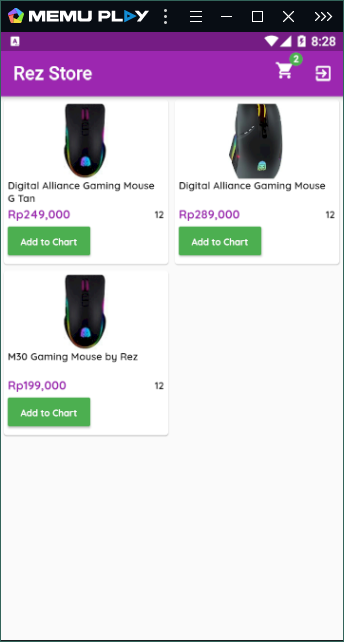
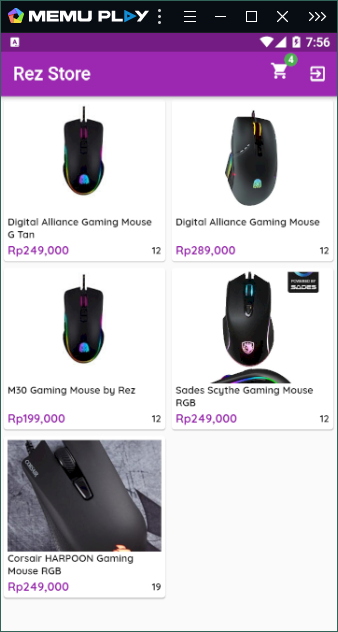
detail product

diff --git a/lib/views/detailProduct.dart b/lib/views/detailProduct.dart
@@ -1,0 +1,219 @@
+import 'dart:convert';
+
+import 'package:flutter/material.dart';
+import 'package:fluttertoast/fluttertoast.dart';
+import 'package:intl/intl.dart';
+import 'package:rez_apps/api/server.dart';
+import 'package:rez_apps/model/productModel.dart';
+import 'package:http/http.dart' as http;
+import 'package:shared_preferences/shared_preferences.dart';
+
+class DetailProduct extends StatefulWidget {
+  final ProductModel model;
+  DetailProduct(this.model);
+
+  @override
+  _DetailProductState createState() => _DetailProductState();
+}
+
+class _DetailProductState extends State<DetailProduct> {
+  final _money = new NumberFormat('#,##0', 'en_US');
+  TextStyle _textDet = TextStyle(
+      fontFamily: 'Quicksand', fontSize: 12.0, fontWeight: FontWeight.bold);
+  String desc =
+      "The HARPOON RGB mouse is built to perform, featuring a 6000 DPI optical gaming sensor with advanced tracking for precise control and lightweight, contoured design to support the quickest of movements.";
+  String idUsers;
+
+  addChart(String idProduct, String harga) async {
+    final response = await http.post(BaseUrl.addchart,
+        body: {"idUsers": idUsers, "idProduct": idProduct, "harga": harga});
+    final data = jsonDecode(response.body);
+    int value = data['value'];
+    String message = data['message'];
+    if (value == 1) {
+      Fluttertoast.showToast(msg: message, toastLength: Toast.LENGTH_SHORT);
+    } else {
+      Fluttertoast.showToast(msg: message, toastLength: Toast.LENGTH_SHORT);
+    }
+  }
+
+  getPref() async {
+    SharedPreferences preferences = await SharedPreferences.getInstance();
+    setState(() {
+      idUsers = preferences.getString("id");
+    });
+  }
+
+  @override
+  void initState() {
+    super.initState();
+    getPref();
+  }
+
+  @override
+  Widget build(BuildContext context) {
+    return Scaffold(
+        body: NestedScrollView(
+      headerSliverBuilder: (BuildContext context, bool innerBox) {
+        return <Widget>[
+          SliverAppBar(
+            expandedHeight: 240.0,
+            floating: true,
+            pinned: true,
+            backgroundColor: Colors.purple,
+            flexibleSpace: FlexibleSpaceBar(
+              background: Hero(
+                tag: widget.model.id,
+                child: Image.network(
+                  'http://192.168.43.69/rez_apps/upload/' + widget.model.image,
+                  fit: BoxFit.cover,
+                ),
+              ),
+            ),
+          )
+        ];
+      },
+      body: Container(
+        child: Stack(
+          children: <Widget>[
+            Positioned(
+              top: 20.0,
+              left: 10.0,
+              right: 10.0,
+              child: Column(
+                crossAxisAlignment: CrossAxisAlignment.start,
+                children: <Widget>[
+                  Text(
+                    widget.model.namaProduct,
+                    style: TextStyle(
+                        fontFamily: 'Quicksand',
+                        fontSize: 20.0,
+                        fontWeight: FontWeight.bold),
+                  ),
+                  Text(
+                    "Rp" + _money.format(int.parse(widget.model.harga)),
+                    style: TextStyle(
+                        fontFamily: 'Quicksand',
+                        fontSize: 24.0,
+                        fontWeight: FontWeight.bold,
+                        color: Colors.green),
+                  ),
+                  Padding(padding: EdgeInsets.only(top: 20.0)),
+                  Container(
+                    padding: EdgeInsets.all(10.0),
+                    color: Colors.grey.withOpacity(0.2),
+                    child: Column(
+                      crossAxisAlignment: CrossAxisAlignment.start,
+                      children: <Widget>[
+                        Text(
+                          "Product Detail",
+                          style: TextStyle(
+                              fontFamily: 'Quicksand',
+                              fontSize: 16.0,
+                              fontWeight: FontWeight.bold),
+                        ),
+                        Padding(padding: EdgeInsets.only(top: 10.0)),
+                        Row(
+                          children: <Widget>[
+                            Text(
+                              "Product Name : ",
+                              style: _textDet,
+                            ),
+                            Text(
+                              widget.model.namaProduct,
+                              style: _textDet,
+                            )
+                          ],
+                        ),
+                        Padding(padding: EdgeInsets.only(top: 5.0)),
+                        Row(
+                          children: <Widget>[
+                            Text(
+                              "Product Stock : ",
+                              style: _textDet,
+                            ),
+                            Text(
+                              widget.model.qty,
+                              style: _textDet,
+                            )
+                          ],
+                        ),
+                        Padding(padding: EdgeInsets.only(top: 5.0)),
+                        Row(
+                          children: <Widget>[
+                            Text(
+                              "Release Date : ",
+                              style: _textDet,
+                            ),
+                            Text(
+                              widget.model.releasepro,
+                              style: _textDet,
+                            )
+                          ],
+                        ),
+                        Padding(padding: EdgeInsets.only(top: 5.0)),
+                        Text("Description : ", style: _textDet),
+                        Padding(padding: EdgeInsets.only(top: 5.0)),
+                        Text(
+                          desc,
+                          style: _textDet,
+                          textAlign: TextAlign.justify,
+                        )
+                      ],
+                    ),
+                  )
+                ],
+              ),
+            ),
+            Positioned(
+              bottom: 0.0,
+              right: 0.0,
+              left: 0.0,
+              child: Row(
+                mainAxisAlignment: MainAxisAlignment.spaceBetween,
+                children: <Widget>[
+                  Container(
+                    child: Material(
+                      color: Colors.green,
+                      child: MaterialButton(
+                        onPressed: () {},
+                        child: Text(
+                          "Chat",
+                          style: TextStyle(
+                              fontSize: 16.0,
+                              fontFamily: 'Quicksand',
+                              fontWeight: FontWeight.bold,
+                              color: Colors.white),
+                        ),
+                      ),
+                    ),
+                  ),
+                  Expanded(
+                    child: Container(
+                      child: Material(
+                        color: Colors.purple,
+                        child: MaterialButton(
+                          onPressed: () {
+                            addChart(widget.model.id, widget.model.harga);
+                          },
+                          child: Text(
+                            "Add to Cart",
+                            style: TextStyle(
+                                fontSize: 16.0,
+                                fontFamily: 'Quicksand',
+                                fontWeight: FontWeight.bold,
+                                color: Colors.white),
+                          ),
+                        ),
+                      ),
+                    ),
+                  )
+                ],
+              ),
+            )
+          ],
+        ),
+      ),
+    ));
+  }
+}

diff --git a/lib/views/homeUser.dart b/lib/views/homeUser.dart
@@ -6,6 +6,7 @@ import 'package:intl/intl.dart';
 import 'package:rez_apps/api/server.dart';
 import 'package:rez_apps/model/cartModel.dart';
 import 'package:rez_apps/model/productModel.dart';
+import 'package:rez_apps/views/detailProduct.dart';
 import 'package:rez_apps/views/login.dart';
 import 'package:shared_preferences/shared_preferences.dart';
 import 'package:http/http.dart' as http;
@@ -145,7 +146,10 @@ class _HomeUsersState extends State<HomeUsers> {
                                   top: 3.0,
                                   right: 6.0,
                                   child: Text(jumlah,
-                                      style: TextStyle(color: Colors.white, fontSize: 10.0, fontWeight: FontWeight.bold)),
+                                      style: TextStyle(
+                                          color: Colors.white,
+                                          fontSize: 10.0,
+                                          fontWeight: FontWeight.bold)),
                                 )
                               ],
                             ),
@@ -176,12 +180,22 @@ class _HomeUsersState extends State<HomeUsers> {
                         crossAxisAlignment: CrossAxisAlignment.start,
                         children: <Widget>[
                           Expanded(
-                            child: Image.network(
-                                'http://192.168.43.69/rez_apps/upload/' +
-                                    x.image,
-                                width: double.infinity,
-                                height: 100.0,
-                                fit: BoxFit.cover),
+                            child: InkWell(
+                              onTap: (){
+                                Navigator.of(context).push(MaterialPageRoute(
+                                  builder: (context) => DetailProduct(x)
+                                ));
+                              },
+                              child: Hero(
+                                tag: x.id,
+                                child: Image.network(
+                                    'http://192.168.43.69/rez_apps/upload/' +
+                                        x.image,
+                                    width: double.infinity,
+                                    height: 100.0,
+                                    fit: BoxFit.cover),
+                              ),
+                            ),
                           ),
                           Container(
                             height: 30.0,
@@ -214,18 +228,18 @@ class _HomeUsersState extends State<HomeUsers> {
                               )
                             ],
                           ),
-                          RaisedButton(
-                            onPressed: () {
-                              addChart(x.id, x.harga);
-                            },
-                            child: Text("Add to Chart",
-                                style: TextStyle(
-                                    color: Colors.white,
-                                    fontFamily: 'Quicksand',
-                                    fontSize: 10.0,
-                                    fontWeight: FontWeight.bold)),
-                            color: Colors.green,
-                          )
+                          // RaisedButton(
+                          //   onPressed: () {
+                          //     addChart(x.id, x.harga);
+                          //   },
+                          //   child: Text("Add to Chart",
+                          //       style: TextStyle(
+                          //           color: Colors.white,
+                          //           fontFamily: 'Quicksand',
+                          //           fontSize: 10.0,
+                          //           fontWeight: FontWeight.bold)),
+                          //   color: Colors.green,
+                          // )
                         ],
                       ),
                     ),
